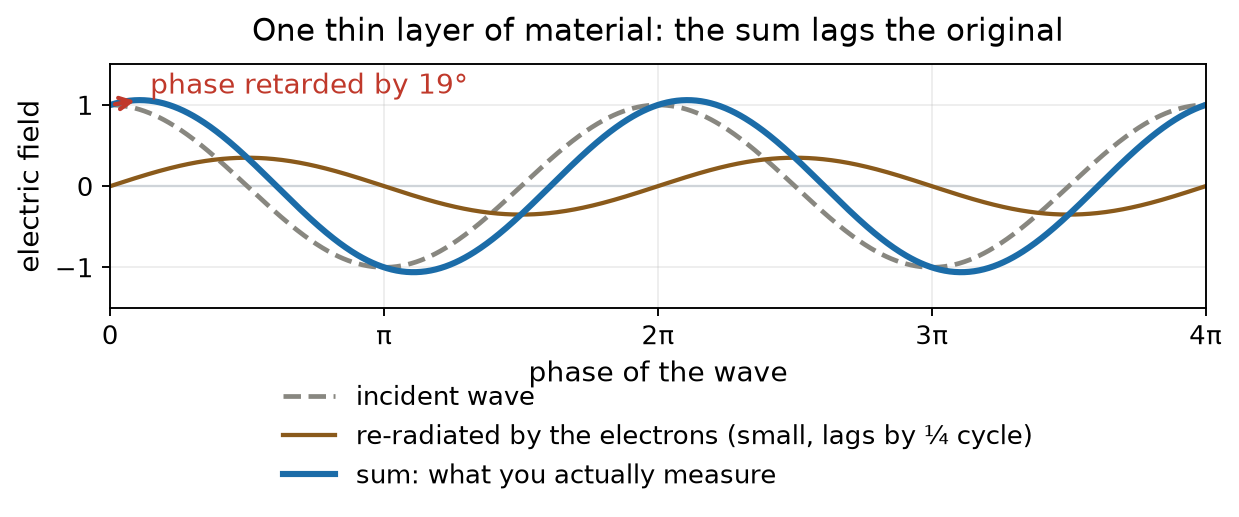
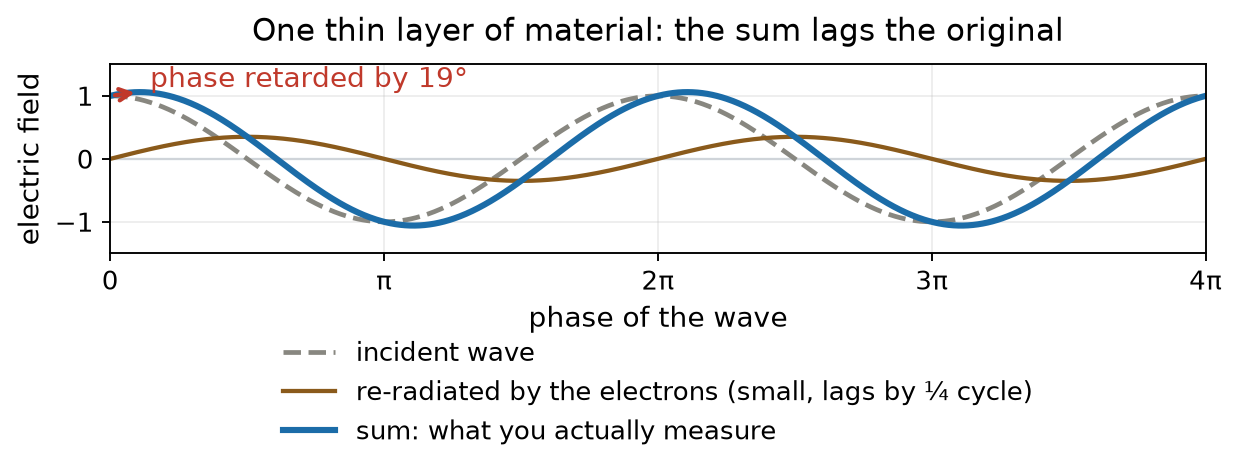
Phase-delay figure: legend clear of the axis title

Changed region(s): [[0.0613, 0.0296, 1.0, 0.8584], [0.2147, 0.8879, 0.6441, 0.9471], [0.0, 0.148, 0.092, 0.5328]]

diff --git a/chain/figures.html b/chain/figures.html
@@ -58,7 +58,7 @@ anchor: <code>figures.html#name</code> jumps straight to it.</div>
 
 <h2>Foundations: light in matter</h2>
 <figure id="polarization-scene"><span class="fid">polarization-scene</span><img src="img/polarization-scene.svg?v=75dbcd41" alt=""><figcaption>The scene behind every equation: an atom with no light, the same atom with the light's field displacing its electron cloud, and every atom doing so at once. P is the polarization of the material; E is the field of the light itself.</figcaption></figure>
-<figure id="phase-delay"><span class="fid">phase-delay</span><img src="img/phase-delay.png?v=0ddce039" alt=""><figcaption>One thin layer of material. The re-radiated wave lags the incident wave by a quarter cycle; their sum peaks later. Accumulated over many layers, that retardation is the refractive index.</figcaption></figure>
+<figure id="phase-delay"><span class="fid">phase-delay</span><img src="img/phase-delay.png?v=09eb9a0d" alt=""><figcaption>One thin layer of material. The re-radiated wave lags the incident wave by a quarter cycle; their sum peaks later. Accumulated over many layers, that retardation is the refractive index.</figcaption></figure>
 <figure id="lighthouse"><span class="fid">lighthouse</span><img src="img/lighthouse.svg?v=1c2ca7ba" alt=""><figcaption>A pattern may outrun light. The spot sweeps faster than c for a large enough radius, but the light at A and at B are different photons that each travelled at c. Nothing crosses from A to B.</figcaption></figure>
 <figure id="lorentz"><span class="fid">lorentz</span><img src="img/lorentz.png?v=bae1e570" alt=""><figcaption>The bound electron as a driven damped oscillator. Left: its lag behind the driving field, from zero below resonance to half a cycle above. Right: the refractive index and absorption that lag produces.</figcaption></figure>
 <figure id="pendulum"><span class="fid">pendulum</span><img src="img/pendulum.png?v=a312d4c6" alt=""><figcaption>The same equation as a 2.5 m playground swing, solved in steady state. Below resonance it follows the hands; at resonance it lags a quarter cycle and the linear model exceeds its validity; far above it moves against the push.</figcaption></figure>

diff --git a/chain/phase_delay.py b/chain/phase_delay.py
@@ -39,7 +39,7 @@ ax.set_xticklabels(["0", "π", "2π", "3π", "4π"])
 ax.set_xlabel("phase of the wave")
 ax.set_ylabel("electric field")
 ax.set_title("One thin layer of material: the sum lags the original", pad=10)
-ax.grid(alpha=.22); ax.legend(loc="upper center", bbox_to_anchor=(0.5, -0.22), ncol=1, frameon=False)
+ax.grid(alpha=.22); ax.legend(loc="upper center", bbox_to_anchor=(0.5, -0.34), ncol=1, frameon=False)
 fig.tight_layout()
 out = pathlib.Path(__file__).parent / "img" / "phase-delay.png"
 fig.savefig(out, bbox_inches="tight", facecolor="white")
